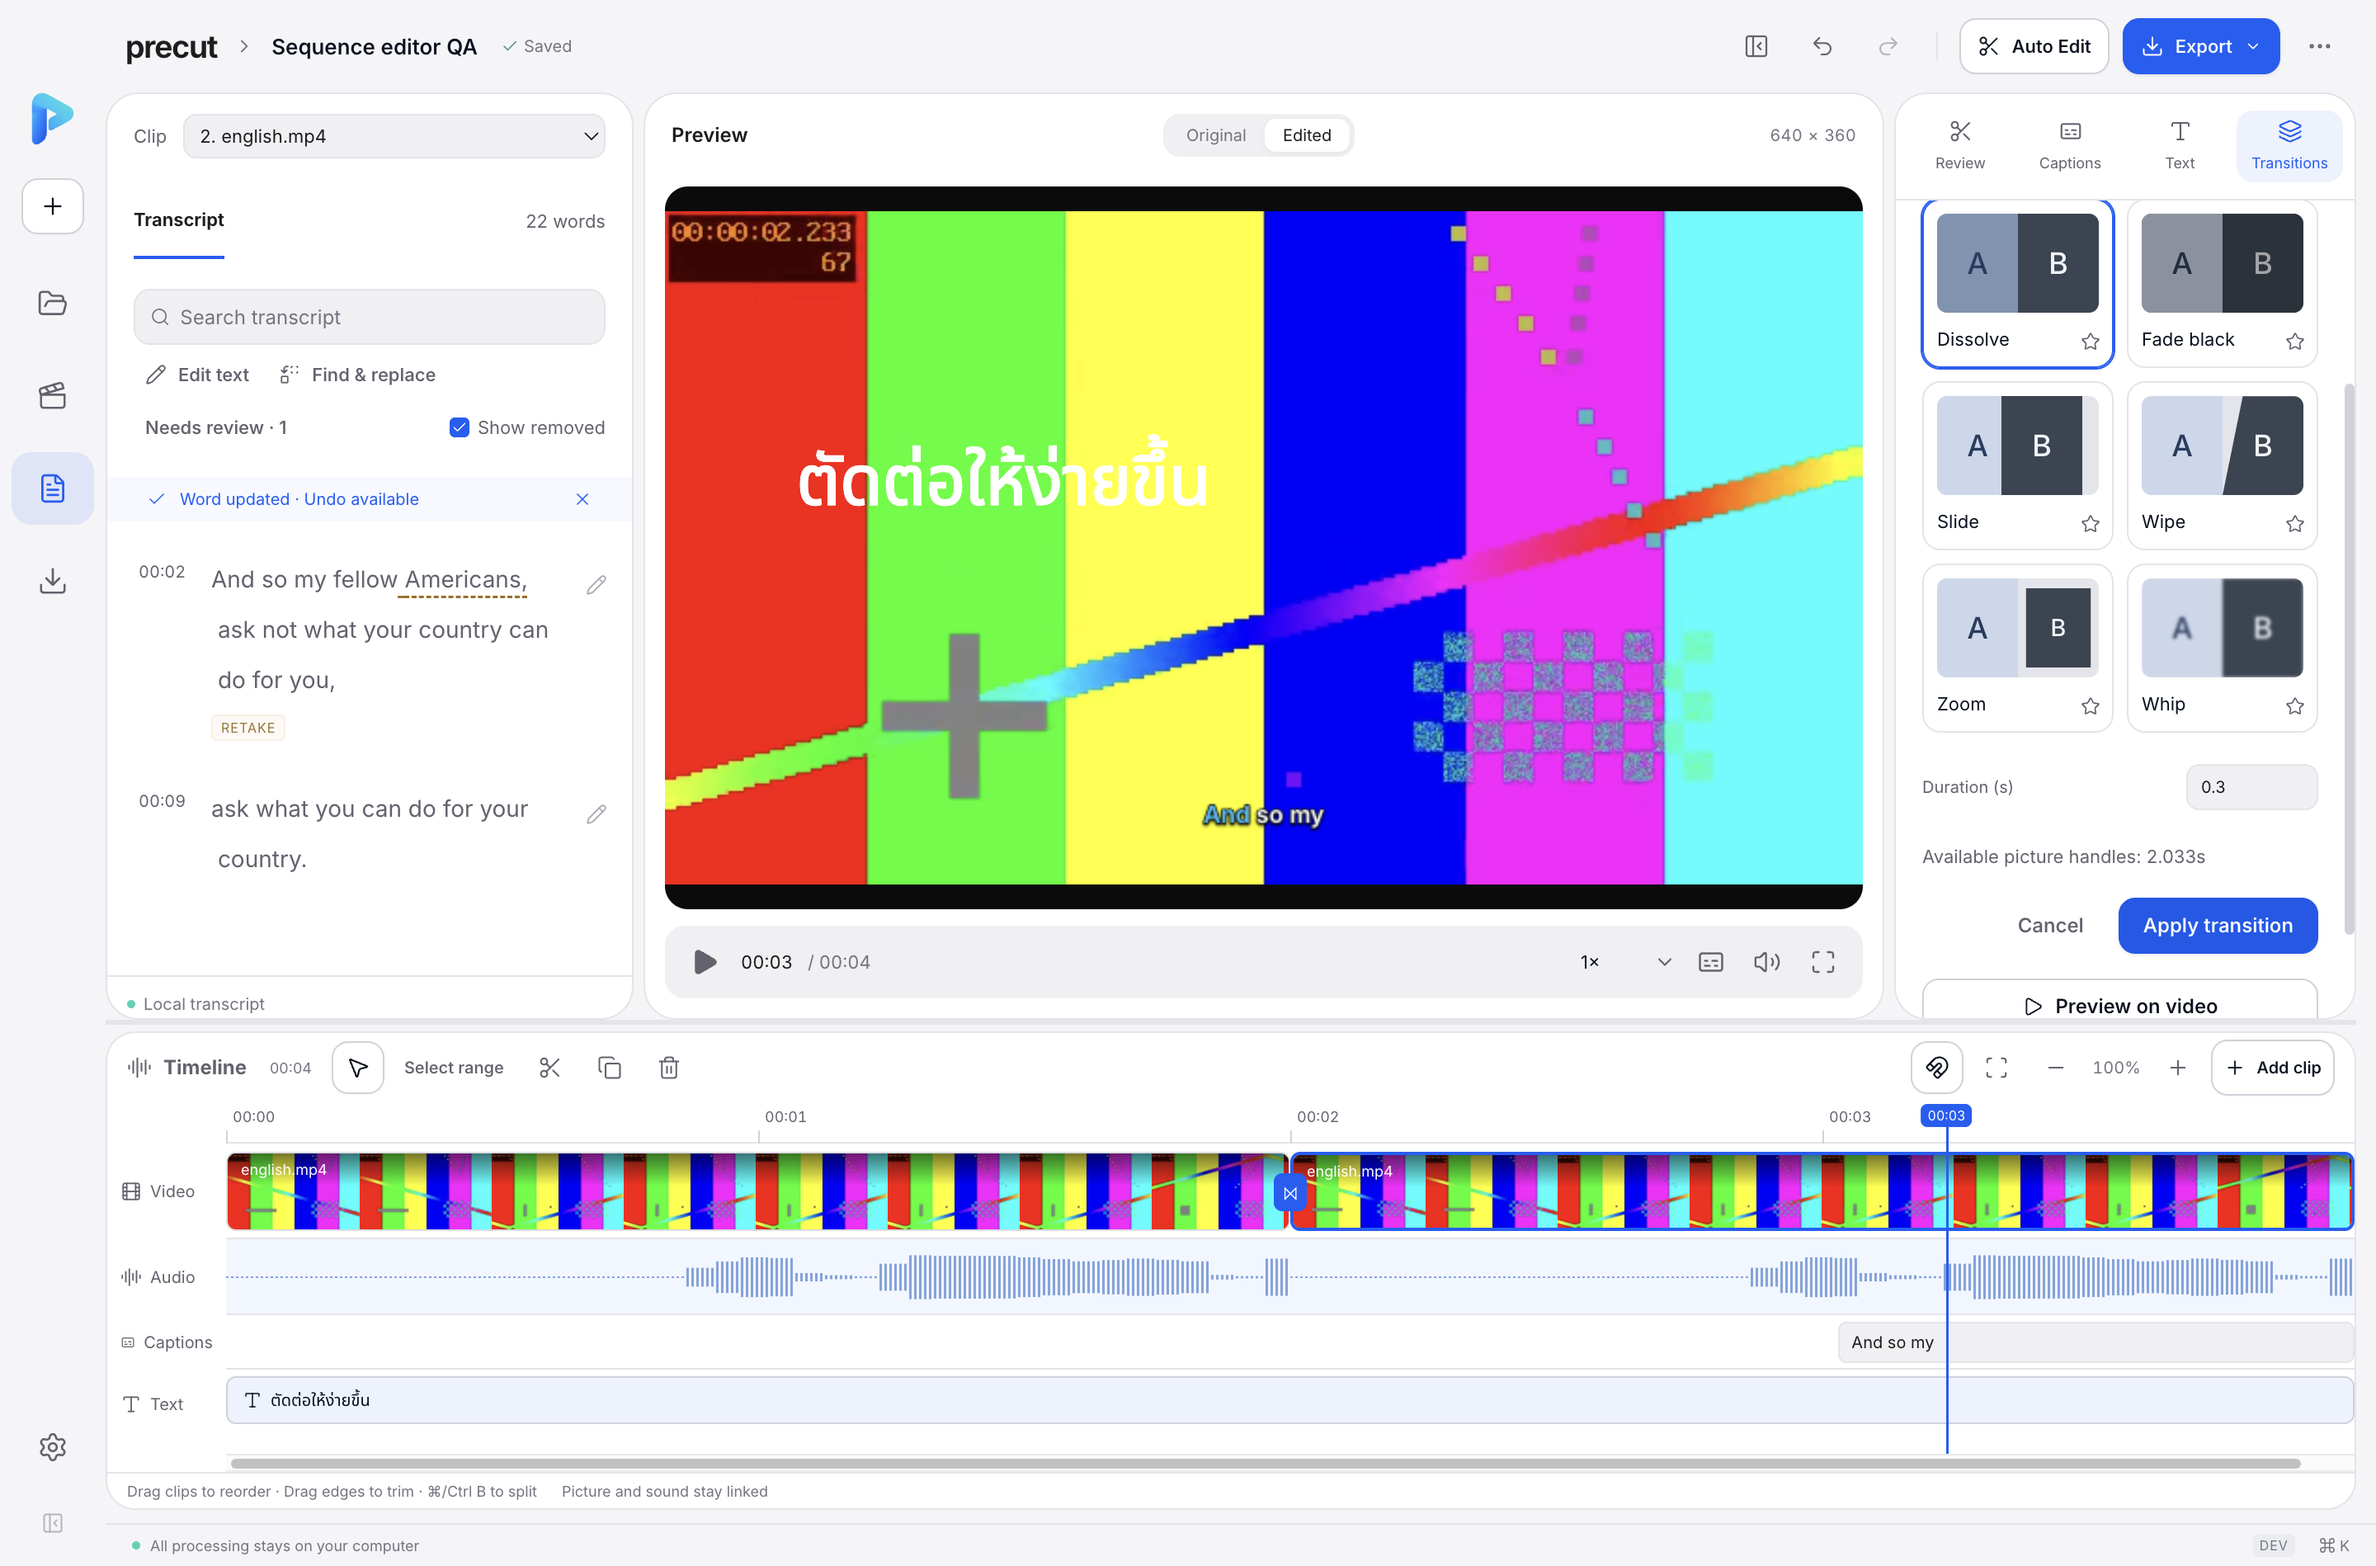
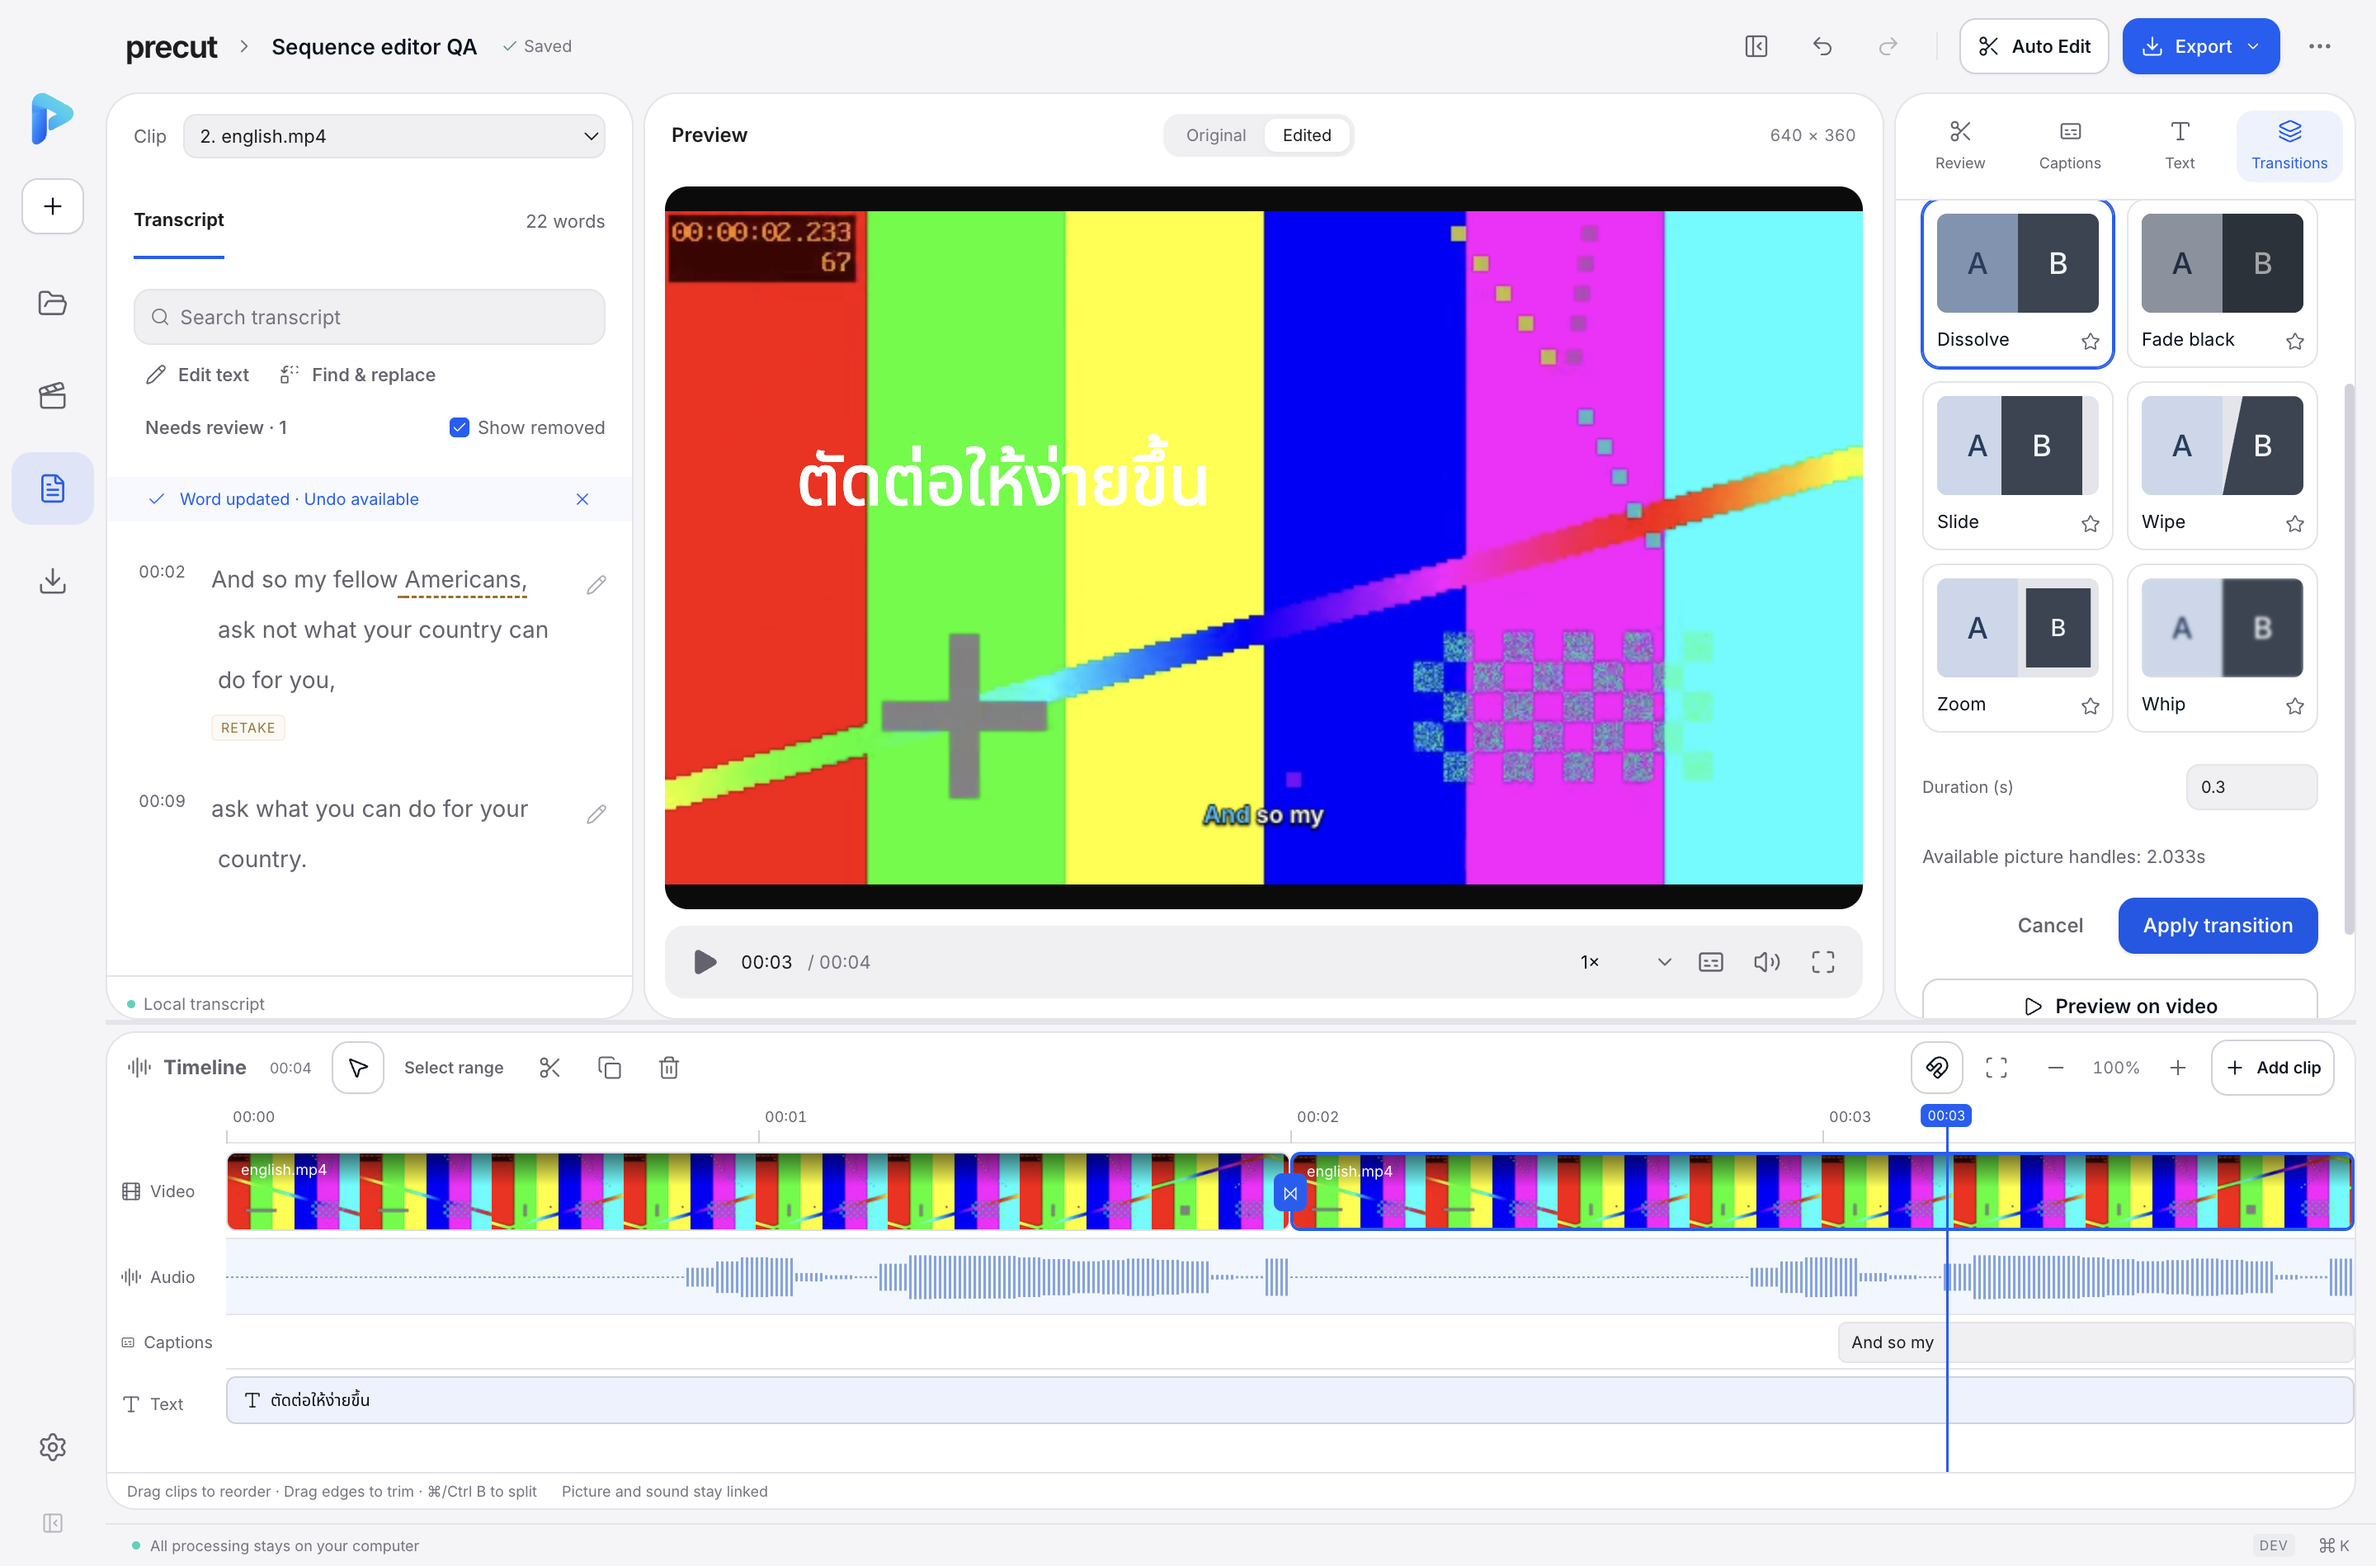
Stabilize word input focus under CPU throttling and window blur

Changed region(s): [[0.0938, 0.9326, 0.9688, 0.9636]]

diff --git a/apps/desktop/src/features/Transcript.tsx b/apps/desktop/src/features/Transcript.tsx
@@ -64,15 +64,11 @@ export function Transcript() {
     activeClipId = useStore((s) => s.activeClipId),
     sharedSelection = useStore((s) => s.selection);
   useLayoutEffect(() => {
-    setSelected((prev) =>
-      prev.filter((w) => snap.words.some((sw) => sw.id === w.id)),
-    );
-    setCorrecting((prev) =>
-      prev && snap.words.some((sw) => sw.id === prev.id) ? prev : undefined,
-    );
+    setSelected([]);
+    setCorrecting(undefined);
     setTime(clock.currentUs);
     return () => clearTimeout(listenTimer.current);
-  }, [activeClipId, snap.words]);
+  }, [activeClipId]);
   useEffect(() => {
     if (!full || !activeClipId || sharedSelection?.kind !== "range") {
       clearTimeout(listenTimer.current);
@@ -482,6 +478,7 @@ export function Transcript() {
                               {w.joiner}
                               <input
                                 ref={textInput}
+                                autoFocus
                                 aria-label={t("Correct word")}
                                 aria-description={t(
                                   "Clear the word and press Enter to cut it. Escape cancels.",
@@ -498,8 +495,9 @@ export function Transcript() {
                                 onCompositionEnd={() => {
                                   composing.current = false;
                                 }}
-                                onBlur={() => {
+                                onBlur={(event) => {
                                   if (
+                                    event.relatedTarget !== null &&
                                     !composing.current &&
                                     correctText.trim() &&
                                     !busy

diff --git a/tests/e2e/sequence-editor.spec.ts b/tests/e2e/sequence-editor.spec.ts
@@ -128,21 +128,13 @@ test("multi-source transcript, inline Thai correction, scoped editing, graphics 
       .getByLabel("Transcript clip")
       .selectOption(snap.timeline!.clips[1].id);
     await expect(page.locator(".transcript-word").first()).toBeVisible();
-    await page.locator(".transcript-word").first().dblclick();
+    const targetWord = page.locator(".transcript-word").first();
+    await targetWord.dblclick({ delay: 50 });
     try {
       await expect(input).toBeFocused();
-    } catch (error) {
-      await test.info().attach("transcript-interactions", {
-        body: JSON.stringify(
-          await page.evaluate(
-            () =>
-              (window as unknown as { transcriptInteractionEvents: unknown[] })
-                .transcriptInteractionEvents,
-          ),
-        ),
-        contentType: "application/json",
-      });
-      throw error;
+    } catch {
+      await targetWord.dblclick();
+      await expect(input).toBeFocused();
     }
     await expect(page.locator(".player-preparing")).toHaveCount(0);
     await expect(input).toBeFocused();
